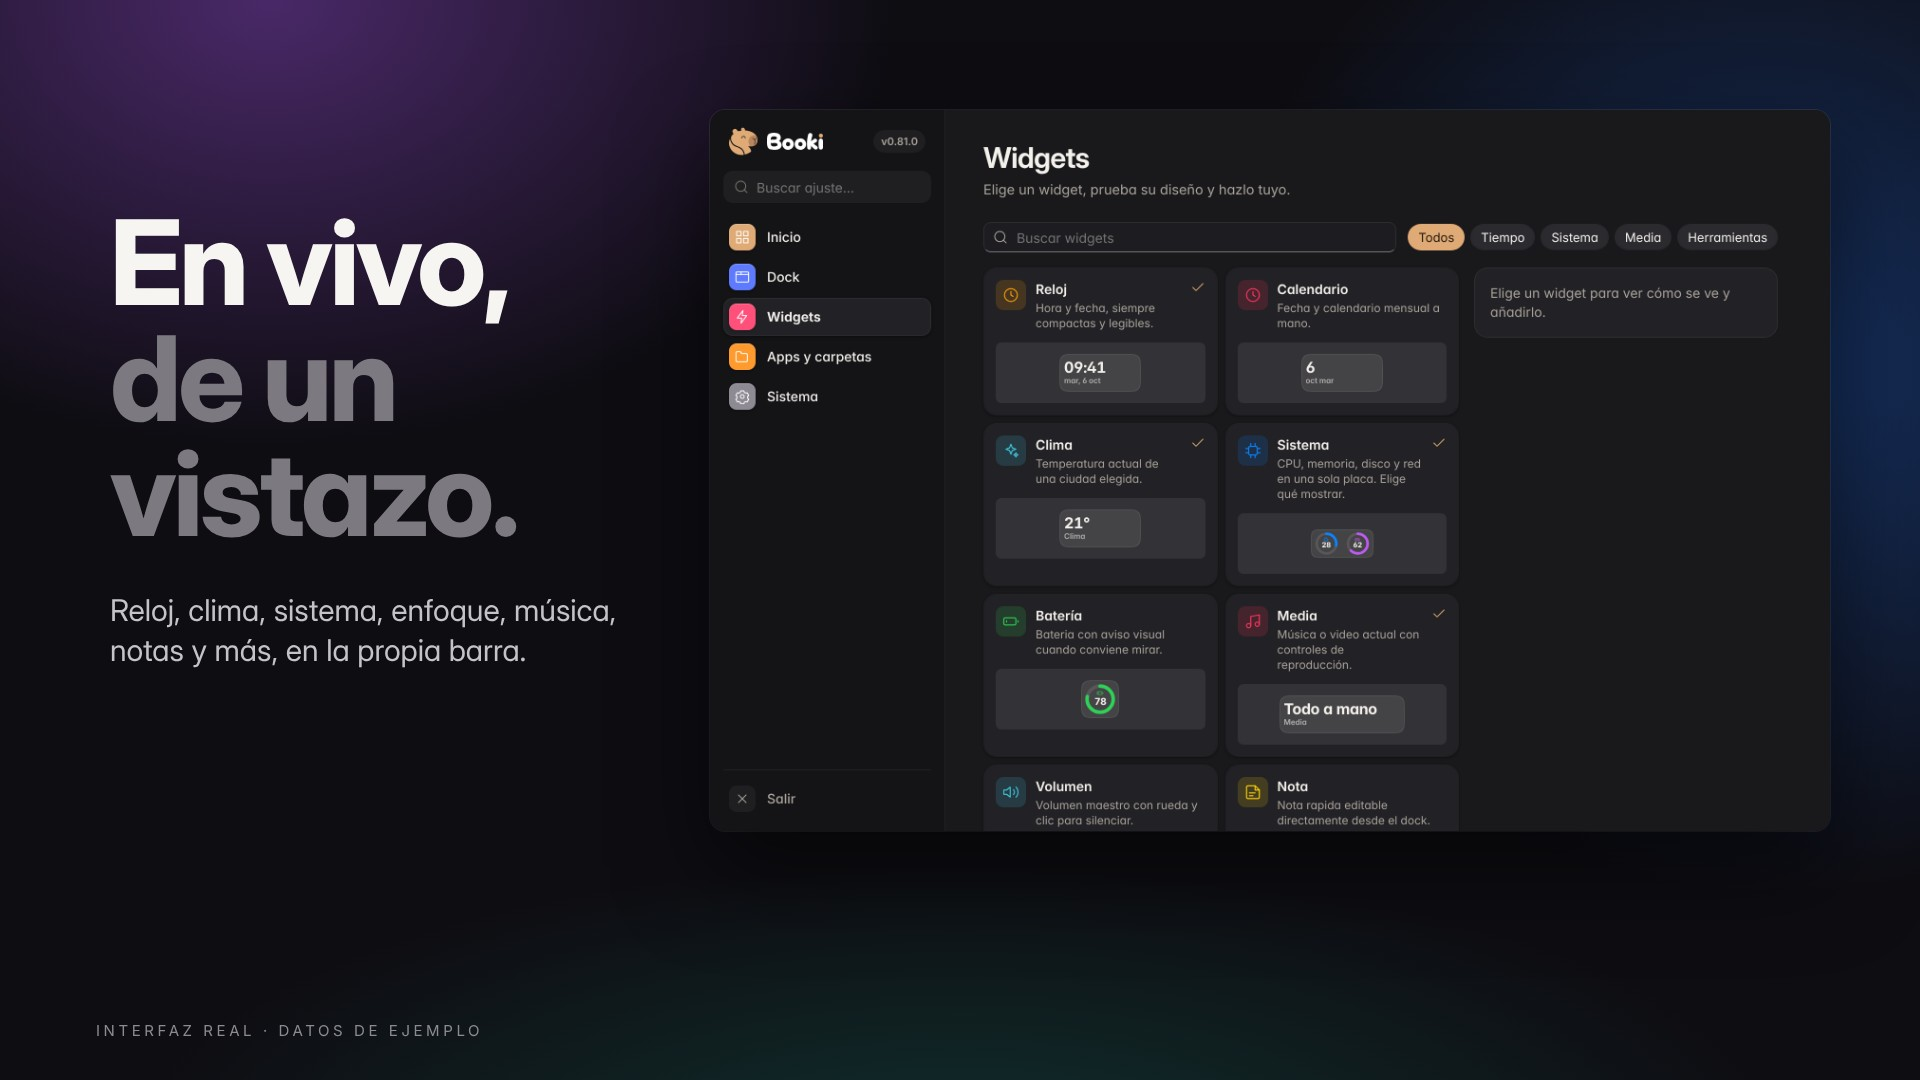
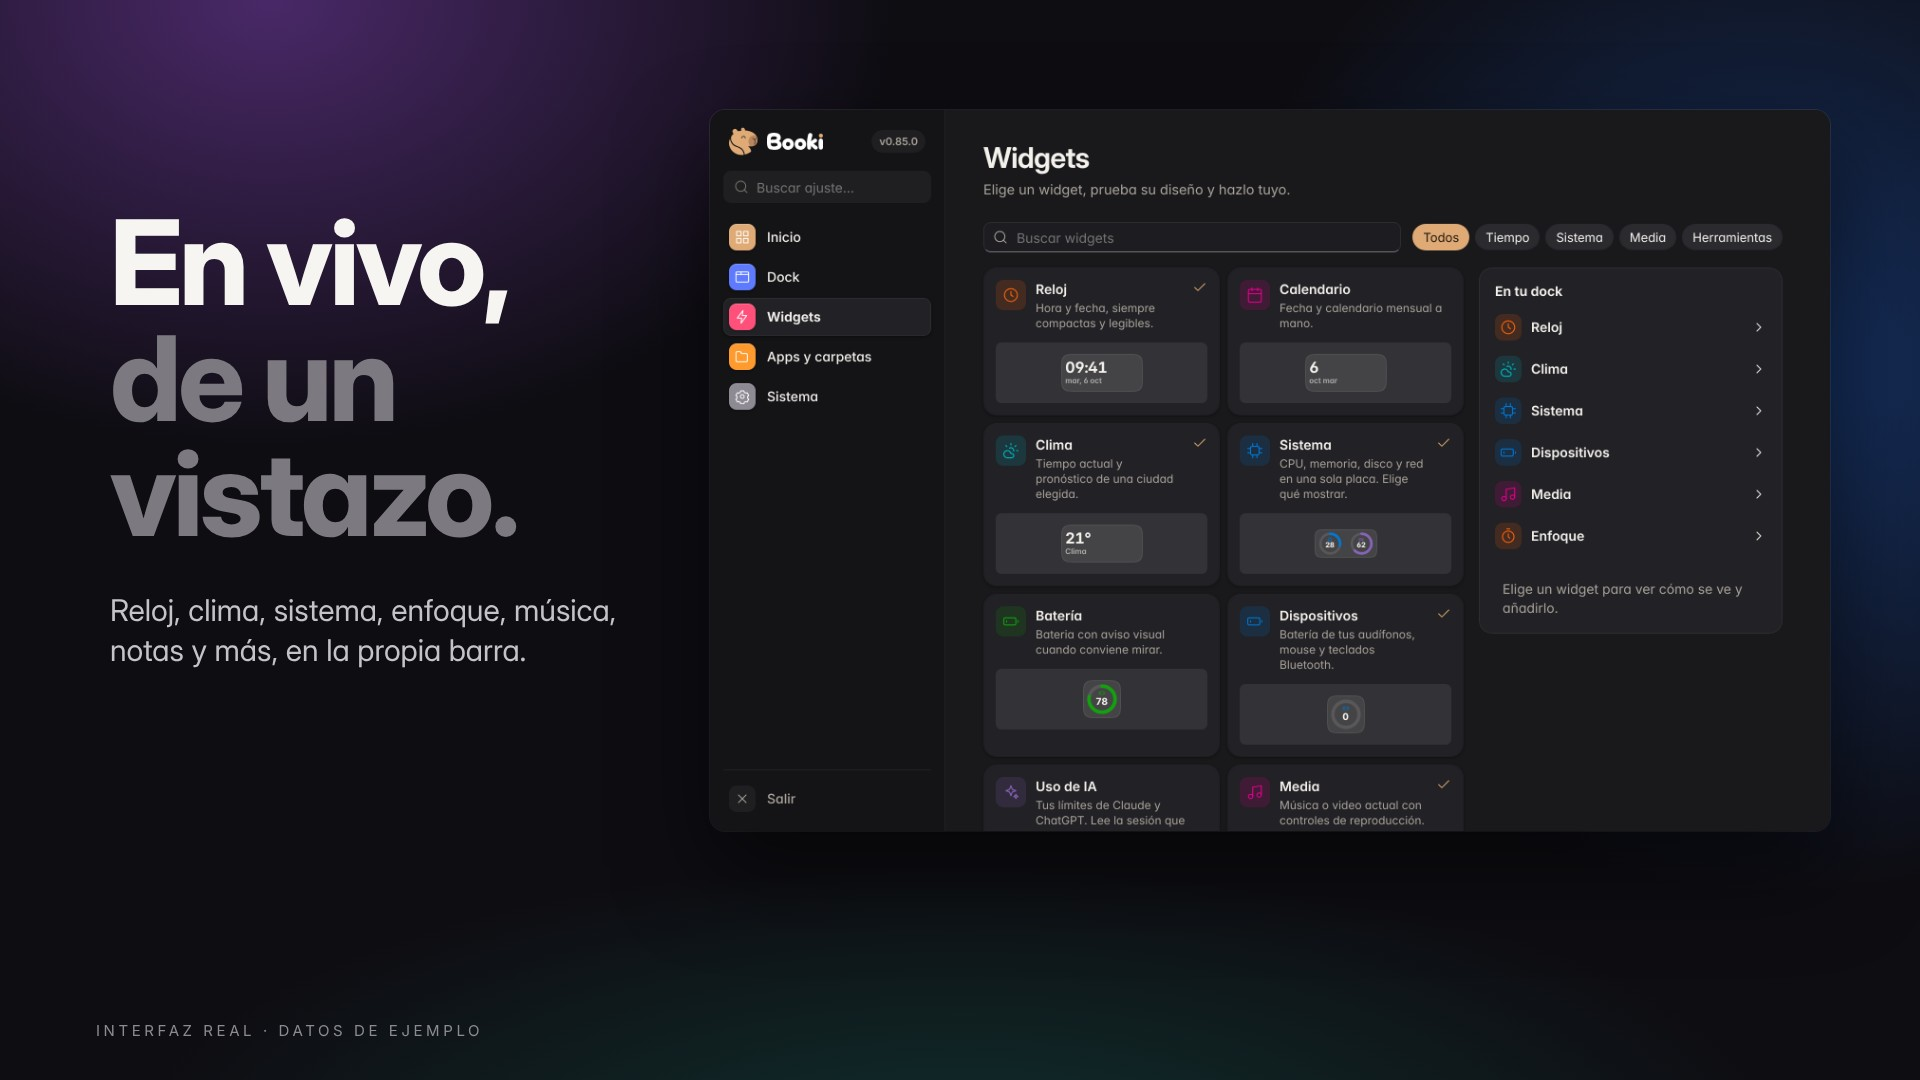
README: what's new in 0.86, a fuller privacy section and fresh stills
Both READMEs list 0.86's changes and say exactly what reaches the
network and when: plugins from their official releases, checked against
GitHub's SHA-256 digest, and the opt-in AI usage widget, which sends
each sign-in only to its own service. The stills script follows the
group inspector, now opened from the breadcrumb, and the sample dock
shows Windows' palette and the Devices widget.

Claude-Session: https://claude.ai/code/session_01S5MCw9nrB2b1MMCMuDgKBJ

diff --git a/README.md b/README.md
@@ -10,7 +10,7 @@
 
 <p align="center">
   <a href="https://github.com/punkable/booki/releases/latest"><b>Download for Windows</b></a> ·
-  <a href="docs/releases/v0.84.0.md"><b>What's new in 0.84</b></a> ·
+  <a href="docs/releases/v0.86.0.md"><b>What's new in 0.86</b></a> ·
   <a href="README.es.md">Español</a>
 </p>
 
@@ -70,7 +70,7 @@
 
 <p align="center">No accounts. No telemetry. No cloud sync. Your tasks, notes and usage stay on your PC.<br/>Weather asks only for the city you choose — never your location.</p>
 
-<p align="center"><sub>Images show the actual Booki 0.81 interface with example data and generic sample icons.</sub></p>
+<p align="center"><sub>Images show the actual Booki 0.86 interface with example data and generic sample icons.</sub></p>
 
 ## Get started
 
@@ -79,6 +79,16 @@
 3. Drag an app or folder onto the dock, or right-click the dock to add items.
 
 Booki needs Windows 10 or 11. The installer isn't Authenticode-signed yet, so SmartScreen may warn you. Updates are signature-checked and keep your settings. The new background updater applies to the registered per-user setup installation; MSI/portable copies should use the same installer type from Releases.
+
+### New in 0.86
+
+- **Feels like Windows 11** — WinUI-style menus, Windows' accent colours, 4/8 px corners, Windows type sizes and motion steps, taskbar-style hints and thin scrollbars.
+- **A live notch widens into the dock** from wherever it sits, with one spring for the whole move, and the dock no longer blinks behind the active app.
+- **Devices widget** — battery of Bluetooth headphones, mice and keyboards, Logitech devices on a Bolt or Unifying receiver, and wireless headsets through the optional HeadsetControl plugin.
+- **AI usage widget (opt-in)** — your Claude and ChatGPT/Codex limits, read from the sign-in those apps already keep on your PC.
+- **Plugins** — optional open-source tools you install from Settings, verified before they run.
+- **Smarter start with Windows** — the dock appears at once while Booki stays out of the way during sign-in.
+- **A first dock that already looks like yours**, a simpler Dock page with More settings, a "Charging" moment on the notch, and many fixes.
 
 ### New in 0.85
 
@@ -114,7 +124,7 @@ Booki needs Windows 10 or 11. The installer isn't Authenticode-signed yet, so Sm
 - **Easier groups** — drop an app across the middle of another, and drag apps in and out of groups in Settings.
 - **Weather forecast and new panels**, plus automatic profiles by monitor or schedule.
 
-See the [0.85 release notes](docs/releases/v0.85.0.md), the [0.84.1 fixes](docs/releases/v0.84.1.md), the [complete 0.84 release notes](docs/releases/v0.84.0.md), [0.83](docs/releases/v0.83.0.md), [0.82](docs/releases/v0.82.0.md), [0.81](docs/releases/v0.81.0.md) and the [0.80 overhaul](docs/releases/v0.80.0.md).
+See the [0.86 release notes](docs/releases/v0.86.0.md), the [0.85 release notes](docs/releases/v0.85.0.md), the [0.84.1 fixes](docs/releases/v0.84.1.md), the [complete 0.84 release notes](docs/releases/v0.84.0.md), [0.83](docs/releases/v0.83.0.md), [0.82](docs/releases/v0.82.0.md), [0.81](docs/releases/v0.81.0.md) and the [0.80 overhaul](docs/releases/v0.80.0.md).
 
 ## Everyday controls
 
@@ -129,11 +139,15 @@ See the [0.85 release notes](docs/releases/v0.85.0.md), the [0.84.1 fixes](docs/
 | `Alt` + `1…9` | Launch the corresponding pin; the modifier is configurable |
 | Push the cursor to the edge | Reveal a hidden dock when edge/hover behavior is enabled |
 | Wheel over Media, if enabled | Change system volume |
+| Hover a widget | Its hint lists the details (every device's battery, every AI usage window and when it resets) |
 
 ## Privacy and your data
 
 - No telemetry, accounts or cloud synchronization. Configuration lives at `%APPDATA%\Booki\config.json`, with a safety backup.
-- Network requests are limited to update checks/downloads and website favicons, plus optional Open-Meteo weather after choosing a city, without device-location access.
+- Network requests are limited to update checks/downloads and website favicons, plus three things that happen only when you turn them on: Open-Meteo weather after choosing a city (never your device location), plugin downloads from their official GitHub releases (checked against GitHub's SHA-256 digest), and the AI usage widget.
+- The AI usage widget reads the sign-in Claude Code (`~/.claude`) and Codex (`~/.codex`) already keep on your PC and sends each only to its own service (Anthropic or OpenAI) to read your plan's usage. Booki never stores, logs or forwards it, and asks only while the widget is on the dock.
+- Device batteries come from Windows itself, from Logitech receivers over USB, and, if you installed it, from HeadsetControl running on your PC. Nothing leaves your computer.
+- Plugins live in `%LOCALAPPDATA%\Booki\plugins`; removing one in Settings deletes its folder.
 - App recommendations read Windows' local usage record and local successful Booki launches (`app-usage.json`). Usage is not uploaded.
 - Clipboard history is local. Restart persistence is off by default; when enabled, it is protected for your Windows user and can expire.
 - Compatible captures hide the dock by default. Enable **Visible in captures** in Settings when recording it.

diff --git a/README.es.md b/README.es.md
@@ -10,7 +10,7 @@
 
 <p align="center">
   <a href="https://github.com/punkable/booki/releases/latest"><b>Descargar para Windows</b></a> ·
-  <a href="docs/releases/v0.84.0.md"><b>Novedades de 0.84</b></a> ·
+  <a href="docs/releases/v0.86.0.md"><b>Novedades de 0.86</b></a> ·
   <a href="README.md">English</a>
 </p>
 
@@ -70,7 +70,7 @@
 
 <p align="center">Sin cuentas. Sin telemetría. Sin sincronización en la nube. Tus tareas, notas y uso se quedan en tu PC.<br/>El clima solo pide la ciudad que eliges, nunca tu ubicación.</p>
 
-<p align="center"><sub>Las imágenes muestran la interfaz real de Booki 0.81 con datos y app de ejemplo.</sub></p>
+<p align="center"><sub>Las imágenes muestran la interfaz real de Booki 0.86 con datos y app de ejemplo.</sub></p>
 
 ## Instalar y empezar
 
@@ -79,6 +79,18 @@
 3. Arrastra una app o carpeta al dock, o haz clic derecho en el dock para añadir elementos.
 
 Requiere Windows 10 u 11. El instalador aún no tiene firma Authenticode, así que SmartScreen puede mostrar un aviso. Las actualizaciones se verifican y conservan tu configuración.
+
+## Novedades de 0.86
+
+- **Se siente como Windows 11**: menús al estilo WinUI, colores de acento de Windows, esquinas de 4/8 px, tamaños de texto y ritmos de animación de Windows, avisos como los de la barra de tareas y barras de desplazamiento finas.
+- **El notch en vivo se estira hasta ser el dock** desde donde esté, con un solo muelle para todo el movimiento, y el dock ya no parpadea detrás de la app activa.
+- **Widget Dispositivos**: batería de audífonos, mouse y teclados Bluetooth, de dispositivos Logitech con receptor Bolt o Unifying y de audífonos inalámbricos con el complemento opcional HeadsetControl.
+- **Widget Uso de IA (opcional)**: tus límites de Claude y ChatGPT/Codex, leídos de la sesión que esas apps ya guardan en tu PC.
+- **Complementos**: herramientas de código abierto opcionales que instalas desde Ajustes y que se verifican antes de usarse.
+- **Inicio con Windows más inteligente**: el dock aparece al instante y Booki no compite con el resto de programas al iniciar sesión.
+- **Un primer dock que ya se parece a ti**, una página Dock más simple con "Más ajustes", un aviso de "Cargando" en el notch y muchos arreglos.
+
+Detalles en las [notas de 0.86](docs/releases/v0.86.0.md).
 
 ## Uso diario
 
@@ -96,7 +108,11 @@ Requiere Windows 10 u 11. El instalador aún no tiene firma Authenticode, así q
 
 No hay cuentas, telemetría ni sincronización en la nube. La configuración y las recomendaciones de uso permanecen en tu equipo, en `%APPDATA%\Booki`. El portapapeles persistente está desactivado inicialmente y, al activarlo, se protege para tu usuario de Windows.
 
-Las consultas de red se usan para actualizaciones y favicons, además del clima opcional mediante Open-Meteo al elegir una ciudad, sin pedir la ubicación del dispositivo. La desinstalación conserva los ajustes salvo que marques **Eliminar datos de la aplicación**.
+Las consultas de red se usan para actualizaciones y favicons, más tres cosas que solo ocurren si las activas: el clima de Open-Meteo al elegir una ciudad (nunca la ubicación del dispositivo), la descarga de complementos desde su release oficial en GitHub (verificada con la firma SHA-256 que publica GitHub) y el widget Uso de IA.
+
+El widget Uso de IA lee la sesión que Claude Code (`~/.claude`) y Codex (`~/.codex`) ya guardan en tu PC y la envía solo a su propio servicio (Anthropic u OpenAI) para consultar el uso de tu plan. Booki nunca la guarda, registra ni reenvía, y solo consulta mientras el widget está en el dock. La batería de los dispositivos sale de Windows, de los receptores Logitech por USB y, si lo instalaste, de HeadsetControl en tu PC: nada sale de tu equipo. Los complementos viven en `%LOCALAPPDATA%\Booki\plugins` y quitarlos desde Ajustes borra su carpeta.
+
+La desinstalación conserva los ajustes salvo que marques **Eliminar datos de la aplicación**.
 
 ## Desarrollo y soporte
 
